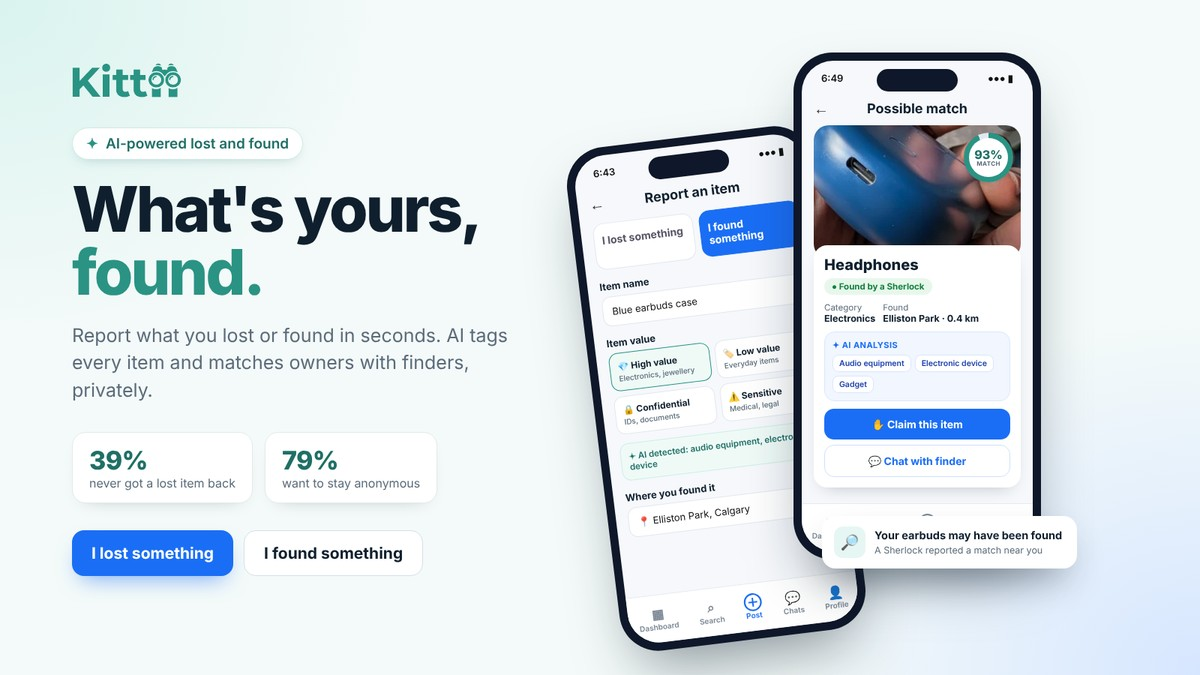
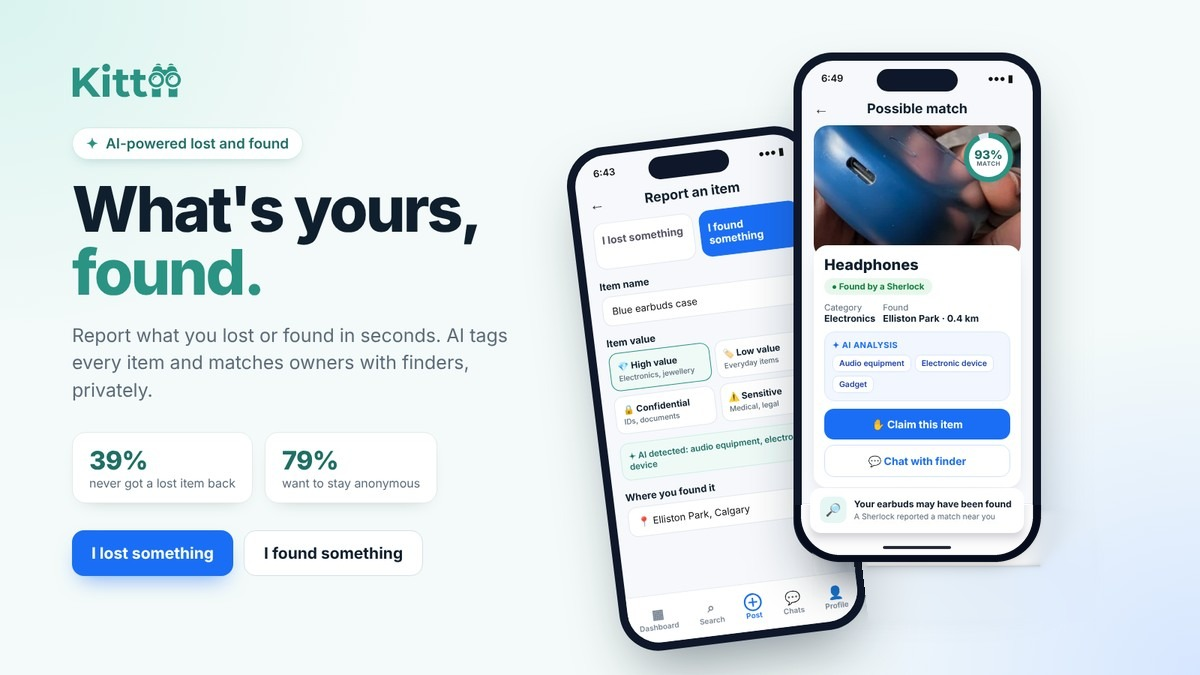
Rebuild Side Quest cover from real app screens; move Kittii toast inside the phone
Claude-Session: https://claude.ai/code/session_013DHFwZEtvJyBquT7r9TggA

Changed region(s): [[0.6783, 0.7156, 0.8942, 0.9022]]

diff --git a/index.html b/index.html
@@ -82,7 +82,7 @@
         <h3 class="pj-group-title">Featured work</h3>
         <div class="pj-grid">
           <a class="pj" href="/work/kittii/">
-            <div class="pj-cover"><span class="pj-badge" style="--bx:36%;--by:13%">High-fidelity MVP</span><img src="/assets/covers/kittii.jpg?v=6" width="1200" height="675" alt="Kittii showcase: report a found item with AI tagging, a 93 percent possible match with a claim button, and a found-item alert" loading="lazy"></div>
+            <div class="pj-cover"><span class="pj-badge" style="--bx:36%;--by:13%">High-fidelity MVP</span><img src="/assets/covers/kittii.jpg?v=7" width="1200" height="675" alt="Kittii showcase: report a found item with AI tagging, a 93 percent possible match with a claim button, and a found-item alert" loading="lazy"></div>
             <div class="pj-body">
               <h4 class="pj-title">Kittii <span>AI lost and found</span></h4>
               <div class="pj-tags"><span class="tag t-gold">Startup</span><span class="tag t-blue">Two-sided marketplace</span><span class="tag t-green">AI</span><span class="tag t-rose">B2C</span></div>
@@ -91,7 +91,7 @@
             </div>
           </a>
           <a class="pj" href="/work/side-quest/">
-            <div class="pj-cover"><span class="pj-badge" style="--bx:35%;--by:13%">Buildathon top 5</span><img src="/assets/covers/side-quest.jpg?v=4" width="1200" height="675" alt="Side Quest showcase: the Quests for you feed matched to free time, a student quest log, and a joined-quest confirmation" loading="lazy"><span class="pj-mark">HelloPM</span></div>
+            <div class="pj-cover"><span class="pj-badge" style="--bx:35%;--by:13%">Buildathon top 5</span><img src="/assets/covers/side-quest.jpg?v=5" width="1200" height="675" alt="Side Quest showcase: the Quests for you feed matched to free time, a student quest log, and a joined-quest confirmation" loading="lazy"><span class="pj-mark">HelloPM</span></div>
             <div class="pj-body">
               <h4 class="pj-title">Side Quest <span>Student volunteering</span></h4>
               <div class="pj-tags"><span class="tag t-rose">Live pilot</span><span class="tag t-blue">Matching platform</span><span class="tag t-gold">Civic tech</span><span class="tag t-green">Built solo</span><span class="tag t-blue">HelloPM</span></div>
